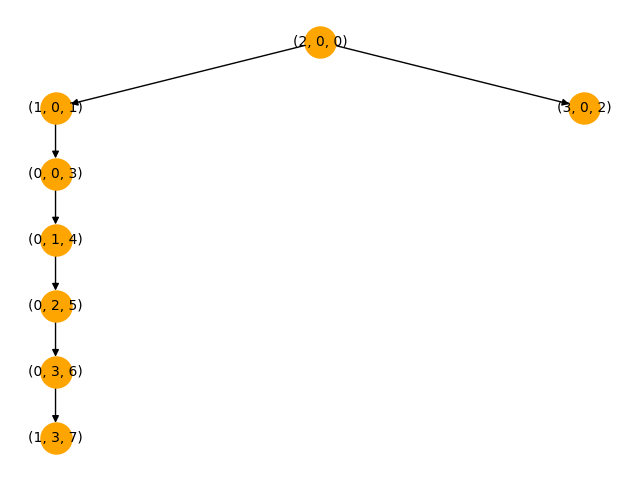
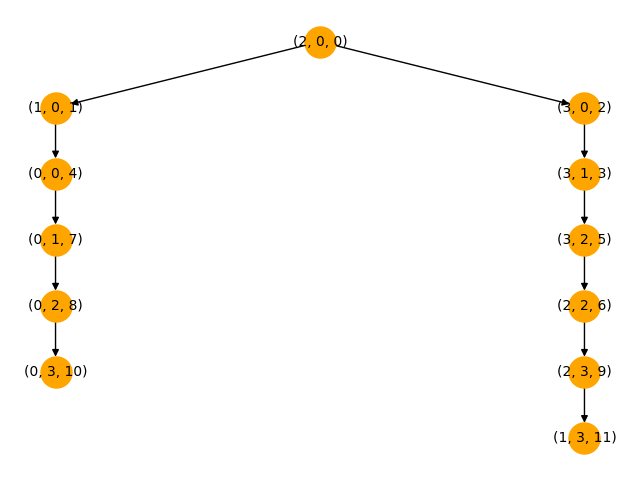
correccion_algoritmos

diff --git a/busquedas_no_informadas/costoUniforme.py b/busquedas_no_informadas/costoUniforme.py
@@ -16,7 +16,7 @@ def reconstruir_camino(nodo):
 def inicializar_estrucuras_de_datos(lista_nodos_iniciales, visitado):
     cola = PriorityQueue()
     for nodo in lista_nodos_iniciales:
-        visitado[nodo.fila][nodo.columna] = True
+        visitado[(nodo.fila, nodo.columna)] = True
         cola.put((nodo.costo, nodo))
     return cola
 
@@ -47,13 +47,12 @@ def ucs(tablero, lista_nodos_iniciales, meta, maximo_iteraciones,visitado, graph
         for df, dc in [(-1, 0), (0, 1), (1, 0), (0, -1)]:
             nueva_fila, nueva_colum = fila + df, colum + dc
             
-            if es_valido(nueva_fila, nueva_colum, tablero) and tablero[nueva_fila][nueva_colum] != '#' and not visitado[nueva_fila][nueva_colum]:
+            if es_valido(nueva_fila, nueva_colum, tablero) and tablero[nueva_fila][nueva_colum] != '#' and not visitado.get((nueva_fila, nueva_colum), False):
                 heuristica = calcular_heuristica(nueva_fila, nueva_colum, fila_final, columna_final)
                 nuevo_nodo = Nodo(nueva_fila, nueva_colum, nodo_actual.costo + 1, heuristica,  nodo_actual.pasos + 1, nodo_actual)
              
-                visitado[nueva_fila][nueva_colum] = True
+                visitado[(nueva_fila, nueva_colum)] = True
                 cola.put((nuevo_nodo.costo, nuevo_nodo))
-                print(nuevo_nodo.costo)
                 graph.graficar_arbol(nuevo_nodo)
                
                  

diff --git a/busquedas_no_informadas/Avara.py b/busquedas_no_informadas/Avara.py
@@ -16,7 +16,7 @@ def reconstruir_camino(nodo):
 def inicializar_estrucuras_de_datos(lista_nodos_iniciales, visitado):
     cola = PriorityQueue()
     for nodo in lista_nodos_iniciales:
-        visitado[nodo.fila][nodo.columna] = True
+        visitado[(nodo.fila, nodo.columna)] = True
         cola.put((nodo.heuristica, nodo))
     return cola
 
@@ -47,13 +47,11 @@ def busqueda_avara(tablero, lista_nodos_iniciales, meta, maximo_iteraciones,visi
         for df, dc in [(-1, 0), (0, 1), (1, 0), (0, -1)]:
             nueva_fila, nueva_colum = fila + df, colum + dc
             
-            if es_valido(nueva_fila, nueva_colum, tablero) and tablero[nueva_fila][nueva_colum] != '#' and not visitado[nueva_fila][nueva_colum]:
+            if es_valido(nueva_fila, nueva_colum, tablero) and tablero[nueva_fila][nueva_colum] != '#' and not visitado.get((nueva_fila, nueva_colum), False):
                 heuristica = calcular_heuristica(nueva_fila, nueva_colum, fila_final, columna_final)
                 nuevo_nodo = Nodo(nueva_fila, nueva_colum, nodo_actual.costo + 1, heuristica,  nodo_actual.pasos + 1, nodo_actual)
-             
-                visitado[nueva_fila][nueva_colum] = True
+                visitado[(nueva_fila, nueva_colum)] = True
                 cola.put((heuristica, nuevo_nodo))
-                print(heuristica)
                 graph.graficar_arbol(nuevo_nodo)
                
                  

diff --git a/busquedas_no_informadas/Profundidad.py b/busquedas_no_informadas/Profundidad.py
@@ -16,7 +16,7 @@ def reconstruir_camino(nodo):
 
 def inicializar_estrucuras_de_datos(lista_nodos_iniciales, visitado):
     for nodo in lista_nodos_iniciales:
-        visitado[nodo.fila][nodo.columna] = True
+        visitado[(nodo.fila, nodo.columna)] = True
     lista_nodos_iniciales.reverse()  
     return  lista_nodos_iniciales
 
@@ -47,12 +47,12 @@ def dfs_izquierda_derecha(tablero, lista_nodos_iniciales, meta, maximo_iteracion
             nueva_fila = nodo_actual.fila + movimiento[0]
             nueva_colum = nodo_actual.columna + movimiento[1]
 
-            if es_valido(nueva_fila, nueva_colum, tablero) and tablero[nueva_fila][nueva_colum] != '#' and not visitado[nueva_fila][nueva_colum]:
+            if es_valido(nueva_fila, nueva_colum, tablero) and tablero[nueva_fila][nueva_colum] != '#' and not visitado.get((nueva_fila, nueva_colum), False):
                 heuristica = calcular_heuristica(nueva_fila, nueva_colum, fila_final, columna_final)
                 nuevo_nodo = Nodo(nueva_fila, nueva_colum, nodo_actual.costo + 1, heuristica, nodo_actual.pasos + 1, nodo_actual)
                 
                 hijos_temp.append(nuevo_nodo) 
-                visitado[nueva_fila][nueva_colum] = True
+                visitado[(nueva_fila, nueva_colum)] = True
                 graph.graficar_arbol(nuevo_nodo)
                
              

diff --git a/busquedas_no_informadas/limitada_profundidad.py b/busquedas_no_informadas/limitada_profundidad.py
@@ -16,7 +16,7 @@ def reconstruir_camino(nodo):
 
 def inicializar_estrucuras_de_datos(lista_nodos_iniciales, visitado):
     for nodo in lista_nodos_iniciales:
-        visitado[nodo.fila][nodo.columna] = True
+        visitado[(nodo.fila, nodo.columna)] = True
     lista_nodos_iniciales.reverse()  
     return  lista_nodos_iniciales
 
@@ -47,12 +47,12 @@ def dls_limitProfundidad(tablero, lista_nodos_iniciales, meta, maximo_iteracione
             nueva_fila = nodo_actual.fila + movimiento[0]
             nueva_colum = nodo_actual.columna + movimiento[1]
 
-            if es_valido(nueva_fila, nueva_colum, tablero) and tablero[nueva_fila][nueva_colum] != '#' and not visitado[nueva_fila][nueva_colum]:
+            if es_valido(nueva_fila, nueva_colum, tablero) and tablero[nueva_fila][nueva_colum] != '#' and not visitado.get((nueva_fila, nueva_colum), False):
                 heuristica = calcular_heuristica(nueva_fila, nueva_colum, fila_final, columna_final)
                 nuevo_nodo = Nodo(nueva_fila, nueva_colum, nodo_actual.costo + 1, heuristica, nodo_actual.pasos + 1, nodo_actual)
                 
                 hijos_temp.append(nuevo_nodo) 
-                visitado[nueva_fila][nueva_colum] = True
+                visitado[(nueva_fila, nueva_colum)] = True
                 graph.graficar_arbol(nuevo_nodo)
                
              

diff --git a/busquedas_no_informadas/Amplitud.py b/busquedas_no_informadas/Amplitud.py
@@ -20,7 +20,7 @@ def reconstruir_camino(nodo):
 
 def inicializar_estrucuras_de_datos(lista_nodos_iniciales, visitado):
     for nodo in lista_nodos_iniciales:
-        visitado[nodo.fila][nodo.columna] = True
+        visitado[(nodo.fila, nodo.columna)] = True
     return lista_nodos_iniciales
 
 def bfs(tablero, lista_nodos_iniciales, meta, maximo_iteraciones, visitado, graph):
@@ -46,11 +46,11 @@ def bfs(tablero, lista_nodos_iniciales, meta, maximo_iteraciones, visitado, grap
         for df, dc in [(-1, 0), (0, 1), (1, 0), (0, -1)]:
             nueva_fila, nueva_columna = fila + df, columna + dc
             
-            if es_valido(nueva_fila, nueva_columna, tablero) and not visitado[nueva_fila][nueva_columna]:
+            if es_valido(nueva_fila, nueva_columna, tablero) and not visitado.get((nueva_fila, nueva_columna), False):
                 heuristica = calcular_heuristica(nueva_fila, nueva_columna, fila_final, columna_final)
                 nuevo_nodo = Nodo(nueva_fila, nueva_columna, nodo_actual.costo + 1, heuristica, nodo_actual.pasos + 1, nodo_actual)
                 cola.append(nuevo_nodo)
-                visitado[nueva_fila][nueva_columna] = True
+                visitado[(nueva_fila, nueva_columna)] = True
                 graph.graficar_arbol(nuevo_nodo)
         # guardo sus hijos el nodo actual
 

diff --git a/busquedas_no_informadas/profundidad_iterativa.py b/busquedas_no_informadas/profundidad_iterativa.py
@@ -89,7 +89,6 @@ def dfs_por_nivel():
             if padre.fila == fila_final and padre.colum == columna_final:
                 caminito = reconstruir_camino(padre)
                 print("Camino completo:", caminito)
-                visualizar_arbol_jerarquico(arbol_conexiones, fila_inicio, columna_inicio, 0, caminito)
                 return True
 
             # Marcar nodo como visitado
@@ -109,9 +108,7 @@ def dfs_por_nivel():
                         arbol.add_node((hijo.fila, hijo.colum, hijo.id))
                         arbol.add_edge((padre.fila, padre.colum, padre.id), (hijo.fila, hijo.colum, hijo.id))
                         arbol_conexiones.append(((padre.fila, padre.colum, padre.id), (hijo.fila, hijo.colum, hijo.id)))
-                        
-                        # Mostrar visualización del árbol con cada nodo agregado
-                        visualizar_arbol_jerarquico(arbol_conexiones, fila_inicio, columna_inicio, 0, [])
+                
 
                 # Añadir todos los hijos del nodo actual al siguiente nivel
                 siguiente_nivel.extend(hijos_temp)

diff --git a/main.py b/main.py
@@ -9,8 +9,8 @@ from Arbol.graficar_arbol import GraficarArbol
 from clase_nodo.class_nodo import Nodo
 
 
-visitado = [[False for _ in range(105)] for _ in range(105)]  # Matriz de visitados busqueda_avara, ucs, dls_limitProfundidad
-lista_algoritmos = [busqueda_avara]
+visitado = {}
+lista_algoritmos = [dfs_izquierda_derecha, busqueda_avara, ucs, bfs, dls_limitProfundidad]
 
 
 tablero = [
@@ -22,10 +22,10 @@ tablero = [
 
 meta = (1, 3)
 inicio = (2, 0)
-nodo_inicial = Nodo(2, 0, 0, None)
+nodo_inicial = Nodo(2, 0, 0, 0, None)
 graph = GraficarArbol(nodo_inicial)
 lista_inicial = [nodo_inicial]
-maximo_iteraciones = 3
+maximo_iteraciones = 2
 
 for i in range(len(lista_algoritmos)):
     resultado = lista_algoritmos[i](tablero, lista_inicial, meta, maximo_iteraciones, visitado, graph)

diff --git a/Arbol/graficar_arbol.py b/Arbol/graficar_arbol.py
@@ -2,6 +2,7 @@ import networkx as nx
 import matplotlib.pyplot as plt
 
 
+
 class GraficarArbol:
 
     def __init__(self, root):
@@ -14,6 +15,9 @@ class GraficarArbol:
         self.pos = self.hierarchy_pos(self.graph, self.root)
         nx.draw(self.graph, self.pos, with_labels=True, node_size=500, node_color="orange", font_size=10)
         plt.savefig("arbol.png")
+        # Implementar sleep para que se pueda ver el arbol
+        # actualizar la imagen en cada iteracion
+
         plt.show()
 
     def hierarchy_pos(self, G, root=None, width=1., vert_gap=0.2, vert_loc=0, xcenter=0.5):
